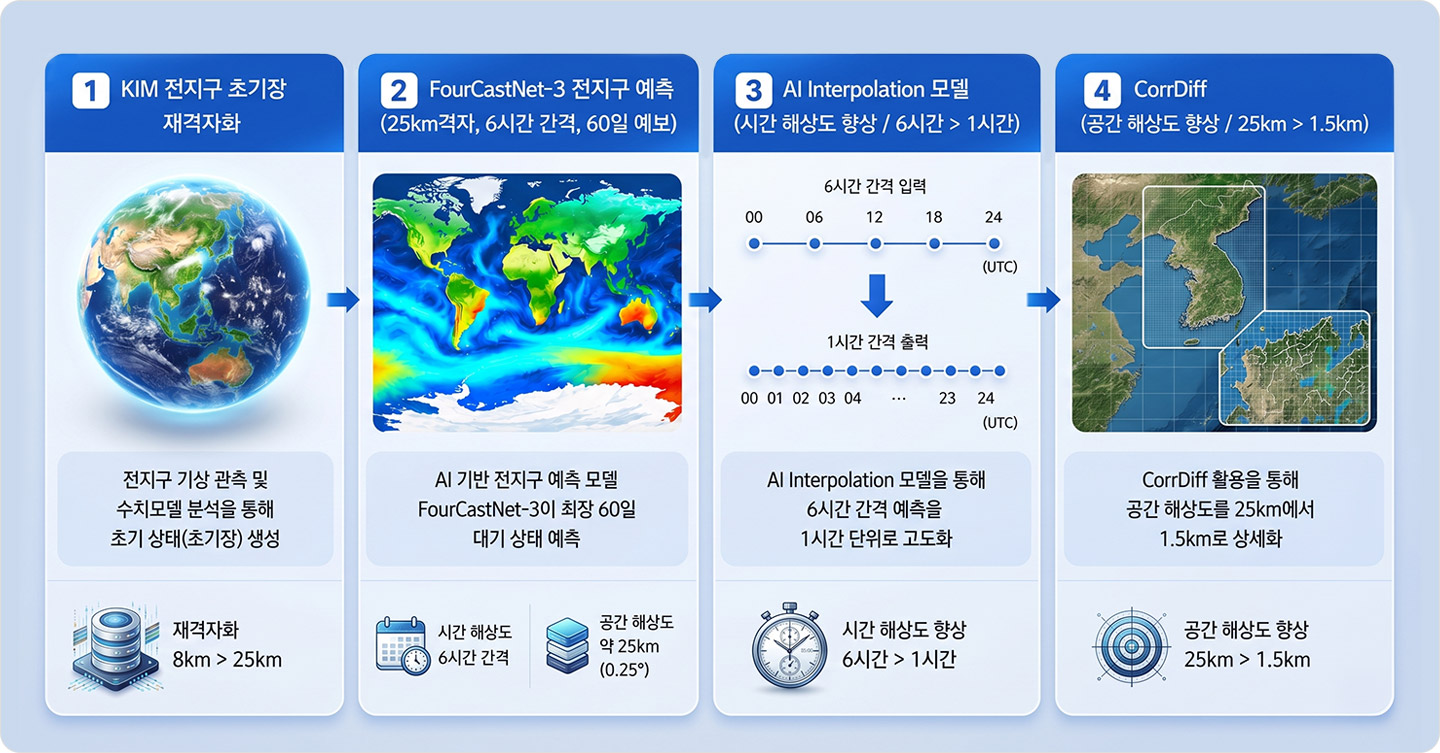
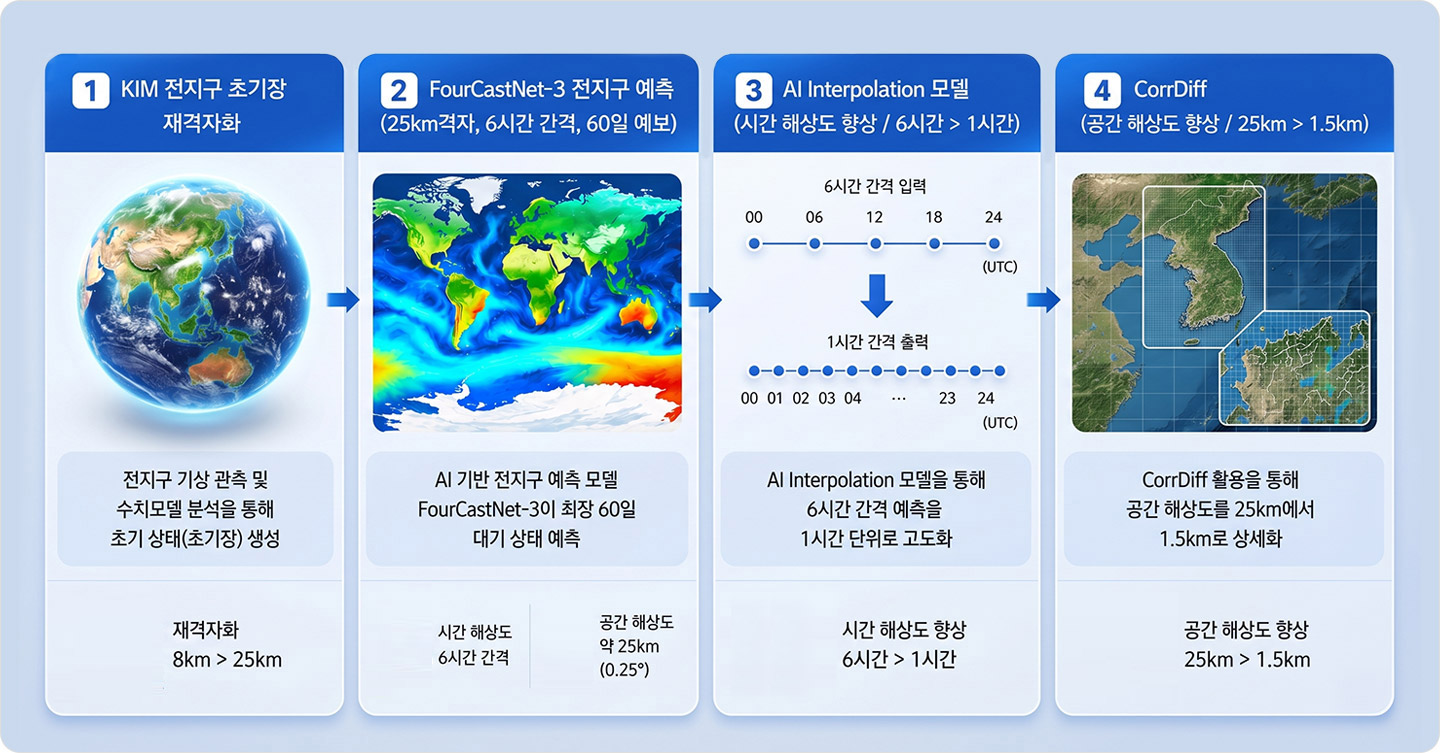
fix: 푸터 데이터 링크 보강 및 AI 기상예보 이미지 교체
- 푸터 공기측정(/data/measure)·Air365(/data/air365) 링크 연결
- AI 기상예보 data_ai03_re 이미지 교체(아이콘 제거본), 치수 1440x753·캐시 ?v=2

diff --git a/src/app/data/ai/page.tsx b/src/app/data/ai/page.tsx
@@ -155,9 +155,9 @@ export default function AiForecastPage() {
           </p>
           <img
             className="ai-fig"
-            src="/assets/sub/data_ai03_re.jpg"
-            width={1309}
-            height={672}
+            src="/assets/sub/data_ai03_re.jpg?v=2"
+            width={1440}
+            height={753}
             alt="KIM 전지구 초기장 재격자화 → FourCastNet-3 전지구 예측 → AI Interpolation → CorrDiff로 이어지는 하이브리드 AI 기상예보 처리 과정"
           />
         </section>

diff --git a/src/components/Footer.tsx b/src/components/Footer.tsx
@@ -36,8 +36,10 @@ const COLS: { title: string; groups: string[][] }[] = [
 
 /* 서브 페이지 라우트가 생긴 메뉴만 연결 — 나머지는 "#" 유지 */
 const MENU_LINKS: Record<string, string> = {
+  공기측정: "/data/measure",
   공기예보: "/data/air",
   동별미세먼지: "/data/dong",
+  Air365: "/data/air365",
   기상데이터: "/data/weather",
   AI기상예보: "/data/ai",
   방송컨텐츠: "/data/broadcast",
